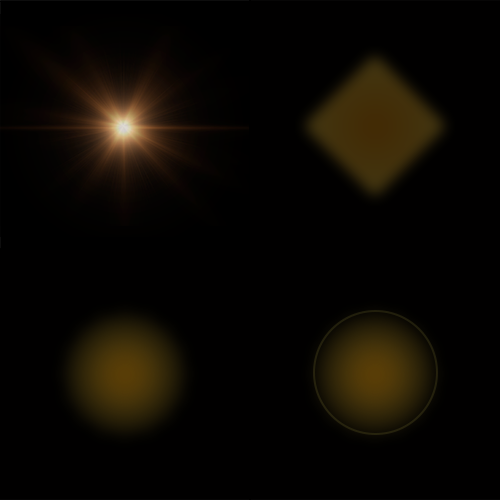
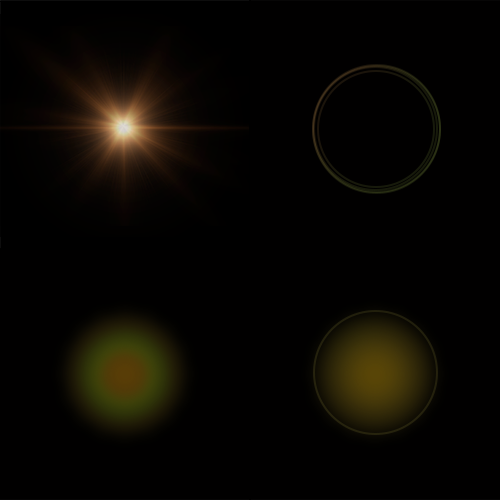
new sun textures

Changed region(s): [[0.6, 0.12, 0.9, 0.39]]

diff --git a/SpaceTrader/src/spacetrader/view/SolarSystemViewController.java b/SpaceTrader/src/spacetrader/view/SolarSystemViewController.java
@@ -104,8 +104,16 @@ public class SolarSystemViewController implements Initializable {
         g = viewCanvas.getGraphicsContext2D();
         flareG = flareLayer.getGraphicsContext2D();
         selectionG = selectionLayer.getGraphicsContext2D();
-        starImage = new Image("/visuals/Stars/Sol_big.png");
-        flareImage = new Image("/visuals/Stars/SolFlareSheet.png");
+        if(curSystem.SunType().usesImage() && curSystem.SunType().getImage().contains("RedGiant")) {
+            starImage = new Image("/visuals/Stars/RedGiant_big.png");
+            flareImage = new Image("/visuals/Stars/RedGiantFlareSheet.png");
+        } else if(curSystem.SunType().usesImage() && curSystem.SunType().getImage().contains("Binary")) {
+            starImage = new Image("/visuals/Stars/Binary_big.png");
+            flareImage = new Image("/visuals/Stars/BinaryFlareSheet.png");
+        } else {
+            starImage = new Image("/visuals/Stars/Sol_big.png");
+            flareImage = new Image("/visuals/Stars/SolFlareSheet.png");
+        }
         Random r = new Random();
         screenSpace = new HashMap<>();
 
@@ -248,16 +256,16 @@ public class SolarSystemViewController implements Initializable {
         size *= 4;
         posx = 512 - (size / 2) - dragOffsetX - mapOffsetX;
         posy = 288 - (size / 2) - dragOffsetY - mapOffsetY;
-        flareG.drawImage(flareImage, 0, 0, flareImage.getWidth() / 2.0, flareImage.getHeight() / 2.0, posx, posy, size, size);
+        flareG.drawImage(flareImage, 0, 0, flareImage.getWidth() / 2.0, flareImage.getHeight() / 2.0, posx, posy-10, size, size);
         size /= 3;
         posx = 512 - (size / 2) - dragOffsetX - mapOffsetX;
         posy = 288 - (size / 2) - dragOffsetY - mapOffsetY;
-        flareG.drawImage(flareImage, flareImage.getWidth() / 2.0, flareImage.getWidth() / 2.0, flareImage.getWidth() / 2.0, flareImage.getHeight() / 2.0, posx + ((dragOffsetX + mapOffsetX) * 3.5), posy + ((dragOffsetY + mapOffsetY) * 3.5), size, size);
+        flareG.drawImage(flareImage, flareImage.getWidth() / 2.0, 0, flareImage.getWidth() / 2.0, flareImage.getHeight() / 2.0, posx + ((dragOffsetX + mapOffsetX) * 3.5), posy + ((dragOffsetY + mapOffsetY) * 3.5), size, size);
         flareG.drawImage(flareImage, flareImage.getWidth() / 2.0, flareImage.getWidth() / 2.0, flareImage.getWidth() / 2.0, flareImage.getHeight() / 2.0, posx + ((dragOffsetX + mapOffsetX) * 2.5), posy + ((dragOffsetY + mapOffsetY) * 2.5), size, size);
         size /= 4;
         posx = 512 - (size / 2) - dragOffsetX - mapOffsetX;
         posy = 288 - (size / 2) - dragOffsetY - mapOffsetY;
-        flareG.drawImage(flareImage, flareImage.getWidth() / 2.0, flareImage.getWidth() / 2.0, flareImage.getWidth() / 2.0, flareImage.getHeight() / 2.0, posx + ((dragOffsetX + mapOffsetX) * 3), posy + ((dragOffsetY + mapOffsetY) * 3), size, size);
+        flareG.drawImage(flareImage, flareImage.getWidth() / 2.0, 0, flareImage.getWidth() / 2.0, flareImage.getHeight() / 2.0, posx + ((dragOffsetX + mapOffsetX) * 3), posy + ((dragOffsetY + mapOffsetY) * 3), size, size);
         flareG.drawImage(flareImage, flareImage.getWidth() / 2.0, flareImage.getWidth() / 2.0, flareImage.getWidth() / 2.0, flareImage.getHeight() / 2.0, posx + ((dragOffsetX + mapOffsetX) * 1.5), posy + ((dragOffsetY + mapOffsetY) * 1.5), size, size);
         size /= 4;
         posx = 512 - (size / 2) - dragOffsetX - mapOffsetX;

diff --git a/SpaceTrader/src/spacetrader/view/StarScreenController.java b/SpaceTrader/src/spacetrader/view/StarScreenController.java
@@ -256,7 +256,6 @@ public class StarScreenController implements Initializable {
             solarSystemName.setText(mouseOver.Name());
             drawUniverse();
         } else {
-            selectedSolarSystem = null;
             drawUniverse();
         }
     }
